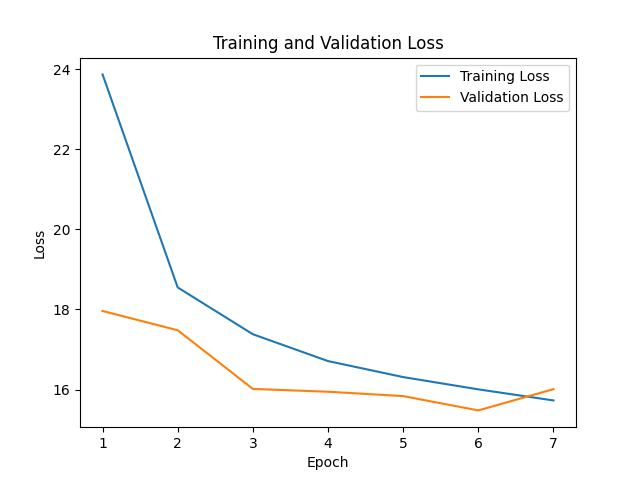
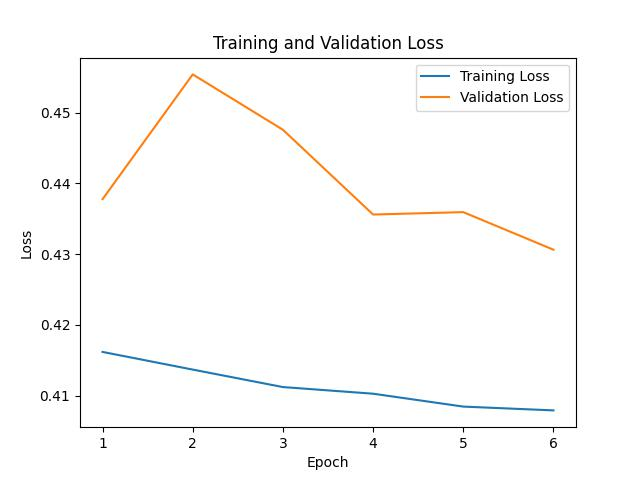
Batching used in Clone-Detection and Model is trained and tested on full data

diff --git a/Graph-Models/MuGNN/pretrain_clonedetection.py b/Graph-Models/MuGNN/pretrain_clonedetection.py
@@ -76,45 +76,41 @@ def create_batches(dataset, args):
     batches = [dataset[graph : min(graph + args.batch_size, len(dataset))] for graph in range(0, len(dataset), args.batch_size)]
     return batches
 
-def train_code_clone_detection(args, model, device, loader, optimizer):
+def train_code_clone_detection(args, model, device, train_loader_1, train_loader_2, train_loader_label, optimizer):
     criterion = nn.MSELoss()
     model.train()
     total_loss, count = 0, 0
     tp, tn, fp, fn, correct = 0, 0, 0, 0, 0
-    for step, batch in enumerate(tqdm(loader, desc="Iteration")):
+    for step, (batch_1, batch_2, label_batch) in enumerate(tqdm(zip(train_loader_1, train_loader_2, train_loader_label), total = len(train_loader_1))):
         optimizer.zero_grad()
-        batchloss = 0
-        for data in batch:
-            x1, x2, edge_index1, edge_index2, edge_attr1, edge_attr2, label = data
-            label = torch.tensor([label], dtype=torch.float, device=device)
-            x1 = x1.clone().detach().to(device)
-            x2 = x2.clone().detach().to(device)
-            edge_index1 = edge_index1.clone().detach().to(device)
-            edge_index2 = edge_index2.clone().detach().to(device)
-            edge_attr1 = edge_attr1.clone().detach().to(device)
-            edge_attr2 = edge_attr2.clone().detach().to(device)
-            prediction_1 = model(x1, edge_index1)
-            prediction_2 = model(x2, edge_index2)
-            cosine_similarity = F.cosine_similarity(prediction_1, prediction_2)
-            batchloss = batchloss + criterion(cosine_similarity, label)
-            
-            prediction = torch.sign(cosine_similarity).item()
-            if prediction > args.threshold and int(label.item()) == 1:
-                tp+=1
-                correct += 1
-            if prediction <= args.threshold and int(label.item()) == -1:
-                tn+=1
-                correct += 1
-            if prediction > args.threshold and int(label.item()) == -1:
-                fp+=1
-            if prediction <= args.threshold and int(label.item()) == 1:
-                fn+=1
-            count += 1
-
+        
+        batch_1 = batch_1.to(device)
+        batch_2 = batch_2.to(device)
+        label_batch = label_batch.float()
+        label_batch = label_batch.to(device)
+        
+        prediction_1 = model(batch_1.x, batch_1.edge_index, batch_1.batch)
+        prediction_2 = model(batch_2.x, batch_2.edge_index, batch_2.batch)
+        cosine_similarity = F.cosine_similarity(prediction_1, prediction_2)
+        batchloss = criterion(cosine_similarity, label_batch)
         batchloss.backward()
         optimizer.step()
         loss = batchloss.item()
         total_loss += loss
+        
+        for i in range(len(cosine_similarity)):
+            prediction = torch.sign(cosine_similarity[i]).item()
+            if prediction > args.threshold and int(label_batch[i]) == 1:
+                tp+=1
+                correct += 1
+            if prediction <= args.threshold and int(label_batch[i]) == -1:
+                tn+=1
+                correct += 1
+            if prediction > args.threshold and int(label_batch[i]) == -1:
+                fp+=1
+            if prediction <= args.threshold and int(label_batch[i]) == 1:
+                fn+=1
+            count += 1
 
     p,r,f1,acc = 0.0, 0.0, 0.0, 0.0
     if tp+fp==0:
@@ -127,45 +123,40 @@ def train_code_clone_detection(args, model, device, loader, optimizer):
     r=tp/(tp+fn)
     f1=2*p*r/(p+r)
     acc = correct / count
-    print("Training Loss: ", total_loss/len(loader))
-    return (acc, p, r, f1), total_loss/len(loader)
+    print("Training Loss: ", total_loss/len(train_loader_1))
+    return (acc, p, r, f1), total_loss/len(train_loader_1)
 
-def eval_code_clone_detection(args, model, device, loader):
+def eval_code_clone_detection(args, model, device, loader_1, loader_2, loader_label):
     criterion = nn.MSELoss()
     model.eval()
     total_loss, count = 0, 0
     tp, tn, fp, fn, correct = 0, 0, 0, 0, 0
     results = []
-    for step, batch in enumerate(tqdm(loader, desc="Iteration")):
-        batchloss= 0
-        for data in batch:
-            x1, x2, edge_index1, edge_index2, edge_attr1, edge_attr2, label = data
-            label = torch.tensor([label], dtype=torch.float, device=device)
-            x1 = x1.clone().detach().to(device)
-            x2 = x2.clone().detach().to(device)
-            edge_index1 = edge_index1.clone().detach().to(device)
-            edge_index2 = edge_index2.clone().detach().to(device)
-            edge_attr1 = edge_attr1.clone().detach().to(device)
-            edge_attr2 = edge_attr2.clone().detach().to(device)
-            prediction_1 = model(x1, edge_index1)
-            prediction_2 = model(x2, edge_index2)
-            cosine_similarity = F.cosine_similarity(prediction_1, prediction_2)
-            results.append(cosine_similarity.item())
-            prediction = torch.sign(cosine_similarity).item()
-            batchloss = batchloss + criterion(cosine_similarity, label)
+    for step, (batch_1, batch_2, label_batch) in enumerate(tqdm(zip(loader_1, loader_2, loader_label), total = len(loader_1))):
+        batch_1 = batch_1.to(device)
+        batch_2 = batch_2.to(device)
+        label_batch = label_batch.float()
+        label_batch = label_batch.to(device)
+        
+        prediction_1 = model(batch_1.x, batch_1.edge_index, batch_1.batch)
+        prediction_2 = model(batch_2.x, batch_2.edge_index, batch_2.batch)
+        cosine_similarity = F.cosine_similarity(prediction_1, prediction_2)
+        batchloss = criterion(cosine_similarity, label_batch)
+        total_loss += batchloss.item()
             
-            if prediction > args.threshold and int(label.item()) == 1:
+        for i in range(len(cosine_similarity)):
+            prediction = torch.sign(cosine_similarity[i]).item()
+            if prediction > args.threshold and int(label_batch[i]) == 1:
                 tp+=1
                 correct += 1
-            if prediction <= args.threshold and int(label.item()) == -1:
+            if prediction <= args.threshold and int(label_batch[i]) == -1:
                 tn+=1
                 correct += 1
-            if prediction > args.threshold and int(label.item()) == -1:
+            if prediction > args.threshold and int(label_batch[i]) == -1:
                 fp+=1
-            if prediction <= args.threshold and int(label.item()) == 1:
+            if prediction <= args.threshold and int(label_batch[i]) == 1:
                 fn+=1
             count += 1
-        total_loss += batchloss.item()
 
     p,r,f1,acc = 0.0, 0.0, 0.0, 0.0
     if tp+fp==0:
@@ -178,7 +169,7 @@ def eval_code_clone_detection(args, model, device, loader):
     r=tp/(tp+fn)
     f1=2*p*r/(p+r)
     acc = correct / count
-    return (acc, p, r, f1), total_loss/len(loader)
+    return (acc, p, r, f1), total_loss/len(loader_1)
 
 def main():
     # Training settings
@@ -257,11 +248,40 @@ def main():
         raise ValueError("Invalid split option.")
 
     if args.dataset == "clone-detection":
-        train_loader = create_batches(train_dataset, args)
-        val_loader = create_batches(valid_dataset, args)
-        test_loader = create_batches(test_dataset, args)
+        train_loader_1, train_loader_2, train_loader_label = [], [], []
+        for data1, data2, label in train_dataset:
+            train_loader_1.append(data1)
+            train_loader_2.append(data2)
+            train_loader_label.append(label)
+        train_loader_1 = DataLoader(train_loader_1, batch_size=args.batch_size, shuffle=False, num_workers = args.num_workers)
+        train_loader_2 = DataLoader(train_loader_2, batch_size=args.batch_size, shuffle=False, num_workers = args.num_workers)
+        train_loader_label = DataLoader(train_loader_label, batch_size=args.batch_size, shuffle=False, num_workers = args.num_workers)
+        if(len(train_loader_1) == len(train_loader_2) and len(train_loader_1) == len(train_loader_label)):
+            print("\nTraining dataset loader size: ", len(train_loader_1))
+        
+        valid_loader_1, valid_loader_2, valid_loader_label = [], [], []
+        for data1, data2, label in valid_dataset:
+            valid_loader_1.append(data1)
+            valid_loader_2.append(data2)
+            valid_loader_label.append(label)
+        valid_loader_1 = DataLoader(valid_loader_1, batch_size=args.batch_size, shuffle=False, num_workers = args.num_workers)
+        valid_loader_2 = DataLoader(valid_loader_2, batch_size=args.batch_size, shuffle=False, num_workers = args.num_workers)
+        valid_loader_label = DataLoader(valid_loader_label, batch_size=args.batch_size, shuffle=False, num_workers = args.num_workers)
+        if(len(valid_loader_1) == len(valid_loader_2) and len(valid_loader_1) == len(valid_loader_label)):
+            print("\nValidation dataset loader size: ", len(valid_loader_1))
+        
+        test_loader_1, test_loader_2, test_loader_label = [], [], []
+        for data1, data2, label in test_dataset:
+            test_loader_1.append(data1)
+            test_loader_2.append(data2)
+            test_loader_label.append(label)
+        test_loader_1 = DataLoader(test_loader_1, batch_size=args.batch_size, shuffle=False, num_workers = args.num_workers)
+        test_loader_2 = DataLoader(test_loader_2, batch_size=args.batch_size, shuffle=False, num_workers = args.num_workers)
+        test_loader_label = DataLoader(test_loader_label, batch_size=args.batch_size, shuffle=False, num_workers = args.num_workers)
+        if(len(test_loader_1) == len(test_loader_2) and len(test_loader_1) == len(test_loader_label)):
+            print("\nTest dataset loader size: ", len(test_loader_1))
     else:
-        train_loader = DataLoader(train_dataset, batch_size=args.batch_size, shuffle=True, num_workers = args.num_workers)
+        train_loader = DataLoader(train_dataset, batch_size=args.batch_size, shuffle=False, num_workers = args.num_workers)
         val_loader = DataLoader(valid_dataset, batch_size=args.batch_size, shuffle=False, num_workers = args.num_workers)
         test_loader = DataLoader(test_dataset, batch_size=args.batch_size, shuffle=False, num_workers = args.num_workers)
 
@@ -277,6 +297,10 @@ def main():
     
     
     model = CustomGCN(num_node_features= 768, device = device)
+    #args.input_model_file = "/home/siddharthsa/cs21mtech12001-Tamal/API-Misuse-Prediction/PDG-gen/Repository/Graph-Models/MuGNN/output/saved_models/model.pth"
+    if not args.input_model_file == "":
+        model.load_state_dict(torch.load(args.input_model_file))
+        print("Loaded the model!!")
     model.to(device)
 
     #set up optimizer
@@ -291,16 +315,16 @@ def main():
     
     patience = 0
     best_f1 = 0
-    args.epochs = 10
+    args.epochs = 20
     for epoch in range(0, args.epochs):
         
         print("====epoch " + str(epoch+1))
         if args.dataset in ["clone-detection"]:
-            train_acc, training_loss = train_code_clone_detection(args, model, device, train_loader, optimizer)
+            train_acc, training_loss = train_code_clone_detection(args, model, device, train_loader_1, train_loader_2, train_loader_label, optimizer)
 
         print("====Evaluation")
         if args.dataset in ["clone-detection"]:
-            val_acc, val_loss = eval_code_clone_detection(args, model, device, val_loader)
+            val_acc, val_loss = eval_code_clone_detection(args, model, device, valid_loader_1, valid_loader_2, valid_loader_label)
 
         print("train(acc, prec, rec, f1): {} val(acc, prec, rec, f1): {}".format(train_acc, val_acc))
         print("Training Loss: {} and Validation Loss: {}".format(training_loss, val_loss))
@@ -319,7 +343,7 @@ def main():
             patience = 0
         else:
             patience += 1
-            if patience == 2:
+            if patience == 3:
                 print("\nStopping training after {} epochs as the score didn't improve in consecutive {} epochs".format(epoch+1, patience))
                 break
         
@@ -327,7 +351,7 @@ def main():
     if not args.output_model_file == "":
         model.load_state_dict(torch.load(args.output_model_file + "/model.pth"))
     if args.dataset in ["clone-detection"]:
-        test_acc, test_loss = eval_code_clone_detection(args, model, device, test_loader)
+        test_acc, test_loss = eval_code_clone_detection(args, model, device, test_loader_1, test_loader_2, test_loader_label)
     print("Test(acc, prec, rec, f1): {}".format(test_acc))
     
     plot_training_and_validation_loss(training_loss_list, validation_loss_list, epochs_list, args.output_plots)

diff --git a/Graph-Models/MuGNN/splitters.py b/Graph-Models/MuGNN/splitters.py
@@ -272,7 +272,7 @@ def custom_split(dataset, dataset_name = None):
             positive_count, negative_count = 0, 0
             
             # Make number of positive and negative pairs balanced
-            datapoints = downsample(datapoints, dataset_cache, take_subset = True, split_name = split_name)
+            datapoints = downsample(datapoints, dataset_cache, take_subset = False, split_name = split_name)
             print("Dataset Size: ", len(datapoints))
             
             for datapoint in tqdm.tqdm(datapoints):
@@ -288,12 +288,22 @@ def custom_split(dataset, dataset_name = None):
                 edge_attr2 = dataset_cache[id2].edge_attr
                 x2 = dataset_cache[id2].x
                 
+                data1 = Data()
+                data1.x = x1
+                data1.edge_index = edge_index1
+                data1.edge_attr = edge_attr1
+                
+                data2 = Data()
+                data2.x = x2
+                data2.edge_index = edge_index2
+                data2.edge_attr = edge_attr2
+                
                 if split_name == "train":
-                    train_dataset.append([x1, x2, edge_index1, edge_index2, edge_attr1, edge_attr2, label])
+                    train_dataset.append([data1, data2, label])
                 elif split_name == "valid":
-                    valid_dataset.append([x1, x2, edge_index1, edge_index2, edge_attr1, edge_attr2, label])
+                    valid_dataset.append([data1, data2, label])
                 else:
-                    test_dataset.append([x1, x2, edge_index1, edge_index2, edge_attr1, edge_attr2, label])
+                    test_dataset.append([data1, data2, label])
                     
                 if int(label) == 1:
                     positive_count += 1

diff --git a/Graph-Models/MuGNN/model_ng.py b/Graph-Models/MuGNN/model_ng.py
@@ -16,12 +16,12 @@ class CustomGCN(torch.nn.Module):
         self.conv3 = GCNConv(64, 32)
         self.device = device
 
-    def forward(self, x, edge_index):
+    def forward(self, x, edge_index, batch):
         x = self.conv1(x, edge_index)
         x = x.relu()
         x = self.conv2(x, edge_index)
         x = x.relu()
         x = self.conv3(x, edge_index)
-        batch = torch.zeros(x.size(0), dtype=torch.long).to(self.device)
-        graph_embedding = global_mean_pool(x, batch = batch)
+        #batch = torch.zeros(x.size(0), dtype=torch.long).to(self.device)
+        graph_embedding = global_mean_pool(x, batch = batch) # [batch_size, hidden_channels]
         return graph_embedding
